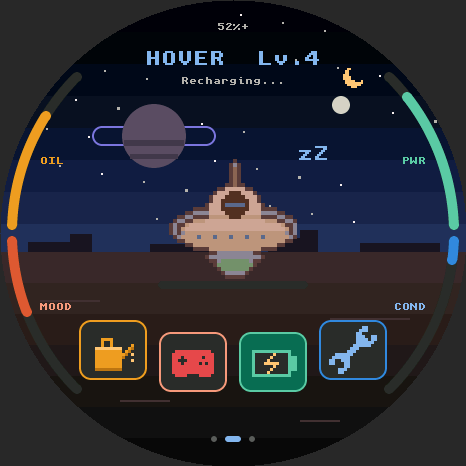
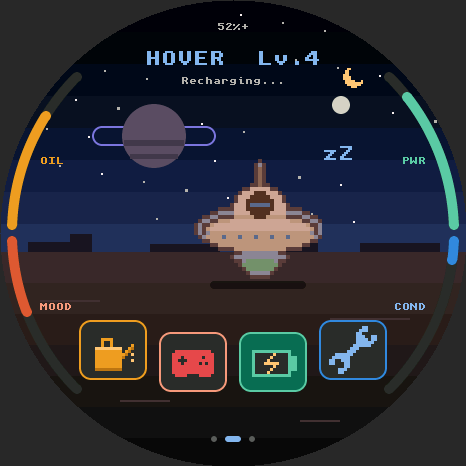
feat: bot strolls left and right on its own while awake
Claude-Session: https://claude.ai/code/session_01Dp7XvQD4PC6HjSrkPDcckm

Changed region(s): [[0.3605, 0.3305, 0.691, 0.6309], [0.6309, 0.3004, 0.7511, 0.3605]]

diff --git a/firmware/stargotchi/src/ui/home.cpp b/firmware/stargotchi/src/ui/home.cpp
@@ -4,6 +4,7 @@
 
 #include "../assets/bot_frames.h"
 #include "../assets/sprites.h"
+#include "../game/wander.h"
 #include "background.h"
 #include "pages.h"
 #include "theme.h"
@@ -27,6 +28,12 @@ uint8_t shownLine = 0;
 bool shownShutdown = false;
 bool asleep = false;
 bool screenOff = false;
+
+// idle walking
+lv_obj_t *shadow;
+lv_timer_t *walkTimer;
+int walkX = 0;
+uint32_t walkRng = 0x9E3779B9u;
 uint32_t animTick = 0;
 
 void setText(lv_obj_t *l, const char *t) {
@@ -80,6 +87,37 @@ lv_obj_t *iconButton(lv_obj_t *parent, const lv_img_dsc_t *icon, uint32_t color,
 }
 
 void bob(void *obj, int32_t v) { lv_obj_set_style_translate_y(static_cast<lv_obj_t *>(obj), v, 0); }
+
+void setWalkX(void *, int32_t v) {
+  walkX = v;
+  lv_obj_set_style_translate_x(botImg, v, 0);
+  lv_obj_set_style_translate_x(shadow, v, 0);
+  lv_obj_set_style_translate_x(zzzLbl, v, 0);
+}
+
+// Each firing starts one stroll and re-arms itself for after the next rest.
+void walkCb(lv_timer_t *t) {
+  const WanderStep s = nextWander(walkRng, walkX);
+  lv_anim_t a;
+  lv_anim_init(&a);
+  lv_anim_set_var(&a, botImg);
+  lv_anim_set_exec_cb(&a, setWalkX);
+  lv_anim_set_values(&a, walkX, s.target);
+  lv_anim_set_time(&a, s.moveMs);
+  lv_anim_set_path_cb(&a, lv_anim_path_ease_in_out);
+  lv_anim_start(&a);
+  lv_timer_set_period(t, s.moveMs + s.pauseMs);
+}
+
+void updateWalking() {
+  const bool canWalk = !asleep && !shownShutdown && !screenOff;
+  if (canWalk) {
+    lv_timer_resume(walkTimer);
+  } else {
+    lv_timer_pause(walkTimer);
+    lv_anim_del(botImg, setWalkX);  // stop where it is
+  }
+}
 
 void startBob() {
   lv_anim_t a;
@@ -142,14 +180,14 @@ void homeBuild(lv_obj_t *tile) {
   lv_img_set_src(moonImg, &sg_img_moon_0);
   lv_obj_align(moonImg, LV_ALIGN_TOP_MID, 120, 64);
 
-  // platform under the bot
-  lv_obj_t *plat = lv_obj_create(tile);
-  lv_obj_remove_style_all(plat);
-  lv_obj_set_size(plat, 150, 8);
-  lv_obj_set_style_radius(plat, 4, 0);
-  lv_obj_set_style_bg_opa(plat, LV_OPA_COVER, 0);
-  lv_obj_set_style_bg_color(plat, lv_color_hex(theme::kTrack), 0);
-  lv_obj_align(plat, LV_ALIGN_CENTER, 0, 52);
+  // shadow under the bot (walks with it)
+  shadow = lv_obj_create(tile);
+  lv_obj_remove_style_all(shadow);
+  lv_obj_set_size(shadow, 96, 8);
+  lv_obj_set_style_radius(shadow, LV_RADIUS_CIRCLE, 0);
+  lv_obj_set_style_bg_opa(shadow, LV_OPA_50, 0);
+  lv_obj_set_style_bg_color(shadow, lv_color_black(), 0);
+  lv_obj_align(shadow, LV_ALIGN_CENTER, 0, 52);
 
   botImg = lv_img_create(tile);
   lv_img_set_src(botImg, botFrame(Stage::Core, 0, 0));
@@ -179,6 +217,8 @@ void homeBuild(lv_obj_t *tile) {
 
   startBob();
   animTimer = lv_timer_create(animCb, 100, nullptr);
+  walkRng ^= lv_tick_get() * 2654435761u;
+  walkTimer = lv_timer_create(walkCb, 2500, nullptr);
 }
 
 void homeRefresh(const Pet &p, uint32_t now, int battery, bool charging) {
@@ -208,6 +248,7 @@ void homeRefresh(const Pet &p, uint32_t now, int battery, bool charging) {
     else startBob();
   }
   setVisible(zzzLbl, asleep);
+  updateWalking();
   shownStage = p.stage;
   shownLine = p.line;
   shownShutdown = p.shutdown;
@@ -227,6 +268,7 @@ void homeRefresh(const Pet &p, uint32_t now, int battery, bool charging) {
 
 void homeSetSleeping(bool sleeping) {
   screenOff = sleeping;
+  updateWalking();
   if (sleeping) {
     lv_timer_pause(animTimer);
     stopBob();

diff --git a/tests/test_wander.cpp b/tests/test_wander.cpp
@@ -1,0 +1,38 @@
+#include <cstdlib>
+
+#include "check.h"
+#include "game/wander.h"
+
+using namespace sg;
+
+TEST(targets_stay_in_range_and_move_far_enough) {
+  uint32_t rng = 12345;
+  int x = 0;
+  for (int i = 0; i < 500; i++) {
+    const WanderStep s = nextWander(rng, x);
+    CHECK(s.target >= -kWanderRange && s.target <= kWanderRange);
+    CHECK(std::abs(s.target - x) >= kWanderMinStep);
+    CHECK(s.pauseMs >= 1500 && s.pauseMs <= 4500);
+    CHECK(s.moveMs == static_cast<uint32_t>(std::abs(s.target - x)) * 1000 / kWanderSpeed);
+    x = s.target;
+  }
+}
+
+TEST(visits_both_sides) {
+  uint32_t rng = 7;
+  int x = 0, minX = 0, maxX = 0;
+  for (int i = 0; i < 50; i++) {
+    x = nextWander(rng, x).target;
+    if (x < minX) minX = x;
+    if (x > maxX) maxX = x;
+  }
+  CHECK(minX < -40);
+  CHECK(maxX > 40);
+}
+
+TEST(deterministic) {
+  uint32_t a = 99, b = 99;
+  CHECK(nextWander(a, 10).target == nextWander(b, 10).target);
+}
+
+RUN_TESTS()

diff --git a/firmware/stargotchi/src/game/wander.cpp b/firmware/stargotchi/src/game/wander.cpp
@@ -1,0 +1,27 @@
+#include "wander.h"
+
+#include <stdlib.h>
+
+namespace sg {
+
+static uint32_t next(uint32_t &r) {
+  if (r == 0) r = 1;
+  r ^= r << 13;
+  r ^= r >> 17;
+  r ^= r << 5;
+  return r;
+}
+
+WanderStep nextWander(uint32_t &rng, int current) {
+  int target = current;
+  while (abs(target - current) < kWanderMinStep) {
+    target = static_cast<int>(next(rng) % (2 * kWanderRange + 1)) - kWanderRange;
+  }
+  WanderStep s;
+  s.target = target;
+  s.moveMs = static_cast<uint32_t>(abs(target - current)) * 1000 / kWanderSpeed;
+  s.pauseMs = 1500 + next(rng) % 3001;
+  return s;
+}
+
+}  // namespace sg

diff --git a/firmware/stargotchi/src/game/wander.h b/firmware/stargotchi/src/game/wander.h
@@ -1,0 +1,19 @@
+#pragma once
+// Idle walking: picks where the bot strolls to next and how long it rests.
+#include <stdint.h>
+
+namespace sg {
+
+constexpr int kWanderRange = 80;    // px left/right of centre
+constexpr int kWanderMinStep = 30;  // never a tiny shuffle
+constexpr int kWanderSpeed = 30;    // px per second
+
+struct WanderStep {
+  int target;        // x offset from centre
+  uint32_t moveMs;   // walking time at kWanderSpeed
+  uint32_t pauseMs;  // rest before the next step (1.5..4.5 s)
+};
+
+WanderStep nextWander(uint32_t &rng, int current);
+
+}  // namespace sg

diff --git a/tools/sim/sim.cpp b/tools/sim/sim.cpp
@@ -63,6 +63,8 @@ int main() {
   sg::ui::build([](sg::ui::Action, uint32_t) {}, {200, 70});
   sg::ui::refresh(p, day0 + 3 * 86400 + 14 * 3600, 84, false);
   shot("home_day");
+  run(7000);
+  shot("home_walk");
 
   p.stage = sg::Stage::Astro; p.line = 2; p.docked = true; p.cond = 12;
   sg::ui::refresh(p, day0 + 8 * 86400 + 23 * 3600, 52, true);

diff --git a/CHANGELOG.md b/CHANGELOG.md
@@ -7,6 +7,7 @@
 - Tilt-controlled mini-game "Asteroid Run"
 - Stats and setup pages (clock, brightness, volume, reset)
 - Planet scenery behind the bot (day and night)
+- The bot strolls left and right on its own while awake
 - Screen dims after 30 s and turns off after 60 s
 - Save survives power loss and web-installer updates
 - Browser installer on GitHub Pages
